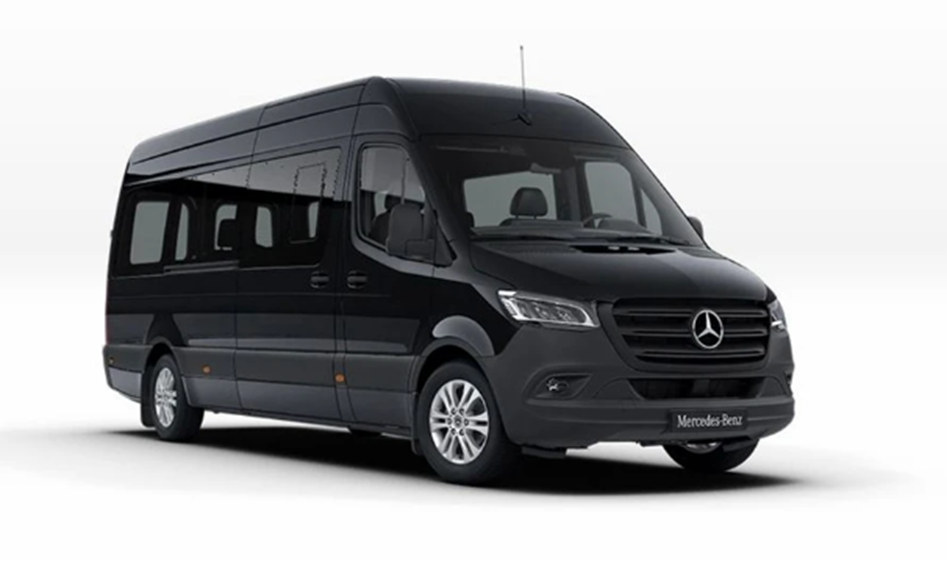
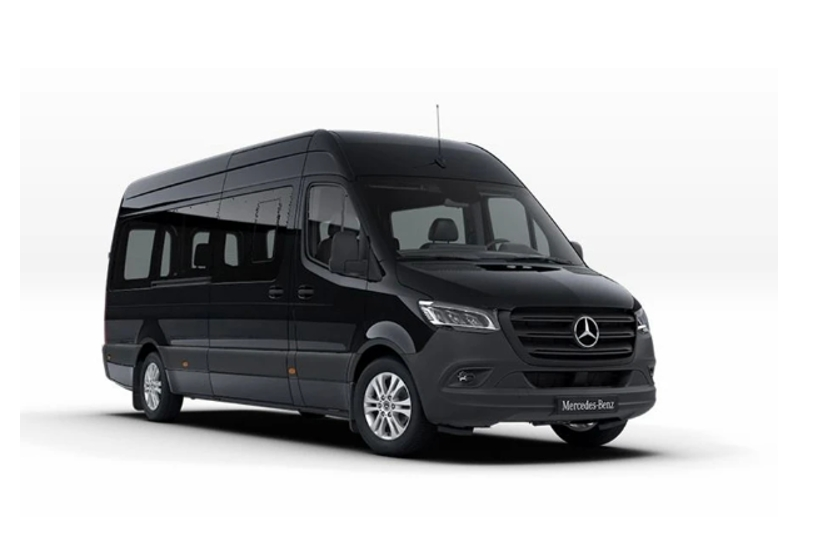
Update homepage vehicle photos

Changed region(s): [[0.0614, 0.1236, 0.86, 0.8655]]

diff --git a/index.html b/index.html
@@ -309,7 +309,7 @@
                   data-car-seats-en="8-9 seats"
                 >
                   <span class="car-seat-badge">8-9 ที่นั่ง</span>
-                  <img src="./assets/images/mercedes-benz-alt.png" alt="รถ Toyota All New">
+                  <img src="./assets/images/toyota-all-new.png" alt="รถ Toyota All New">
                   <strong>TOYOTA ALL NEW</strong>
                   <small data-i18n="car.allnew.small">เหมาะกับครอบครัวและกลุ่มเพื่อน</small>
                   <button class="mini-book-btn" type="button" data-book-car data-i18n="car.mini_book">จองรุ่นนี้</button>
@@ -348,7 +348,7 @@
                   data-car-seats-en="10-16 seats"
                 >
                   <span class="car-seat-badge">10-16 ที่นั่ง</span>
-                  <img src="./assets/images/toyota-all-new.png" alt="รถ Mercedes-Benz Sprinter">
+                  <img src="./assets/images/mercedes-sprinter.png" alt="รถ Mercedes-Benz Sprinter">
                   <strong>Mercedes-Benz Sprinter</strong>
                   <small data-i18n="car.sprinter.small">เหมาะกับหมู่คณะและกรุ๊ปทัวร์</small>
                   <button class="mini-book-btn" type="button" data-book-car data-i18n="car.mini_book">จองรุ่นนี้</button>
